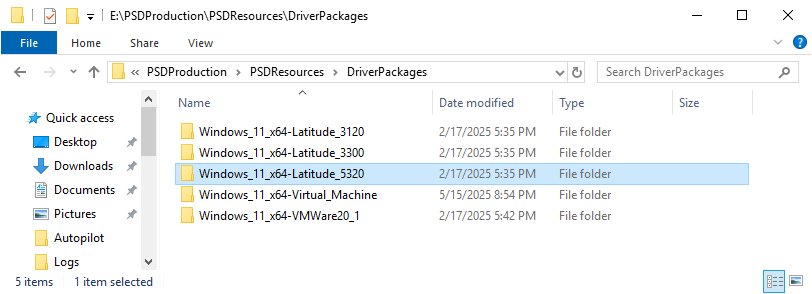
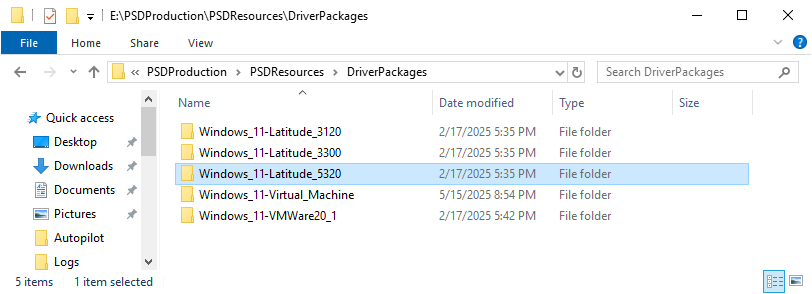
Update

Changed region(s): [[0.3079, 0.4286, 0.4618, 0.6122], [0.3079, 0.6429, 0.4618, 0.7653]]

diff --git a/Documentation/PowerShell Deployment - Operations Guide.md b/Documentation/PowerShell Deployment - Operations Guide.md
@@ -31,19 +31,36 @@ Within MDT Deployment workbench, on the newly created PSD Deployment share, impo
 
 The PSD platform leverages a folder structure for driver packages inside the DeploymentShare\PSDResources\DriverPackages folder. This structure is depending on the DriverPath, GenericDriverPath, and FallBackDriverPath variables. 
 
-Here is an example for a Dell Latitude 5320, and the default DriverPath variable (Windows 11\%ModelAlias%)
+#### Make and Model Drivers
+Having Make and Model driver packages per OS Family is also called Total Control method...
+
+Here is an example for Windows 11 and a Dell Latitude 5320, and the default DriverPath variable (Windows 11\%ModelAlias%)
 
 Step 1: Create a folder that matches the DriverPath variable, OS Family and Hardware Model alias in this case. Windows_11_x64-Latitude_5320 
 
+Please note that the "\" character is replaced with "-", and space is using "_", see the following examples
+
 ![OperationsGuide_DriverStructure](.images/OperationsGuide_DriverStructure_1.png)
 
-Please note that the "\" character is replaced with "-", and space is using "_"
+Step 2: Add either a ZIP or WIM file with the drivers for your hardware model to the created folder. We recommend naming the file short and sweet, without any spaces. For example DriverPackage.wim
 
-As long as you add either a ZIP or WIM file with the drivers for your hardware model, and name the folder according to 
+Note: We recommend having only one file per folder, but technically PSD will inject drivers from multiple files if they exist.
 
-Within MDT Deployment workbench, on the newly created PSD Deployment share, import/create/copy any desired drivers. After adding new drivers to MDT using the "total control method" (OS/Make/Model, or OS/Model, etc. ), you need to run the New-PSDDriverPackage.ps1 to generate the ZIP or WIM archives. One ZIP or WIM archive is created for each OS and Model.
+#### Generic Drivers
+Generic Drivers is a driver package that you would like to install regardless of model, for example a printer or smart card driver.
 
->PRO TIP: You can copy drivers from other MDT deployment shares. PSD also supports adding existing WIM or ZIP driver packages to the platform for seamless integration.
+The default path for the GenericDriverPath vaiable is Windows 11\Generic, meaning you place the drivers in the Windows_11-Generic folder.
+
+
+#### Fallback Drivers
+Fallback Drivers is a driver package that you would like to install if there is no make\model package available.
+
+The default path for the FallBackDriverPath vaiable is Windows 11\FallBack, meaning you place the drivers in the Windows_11-Fallback folder. A good example is commonly used network, storage or video drivers. This way you allow the OS to become somewhat functional and additional can be added later.
+
+#### Helper Scripts
+If you already have an existing MDT deployment share with drivers, we have created helper scripts that can convert those drivers into either ZIP or WIM files. 
+
+To "convert" an existing Out-Of-Box Drivers folder in a MDT Deployment workbench run the New-PSDDriverPackage.ps1 to generate the ZIP or WIM archives. One ZIP or WIM archive is created for each OS and Model.
 
 Sample syntax:
 ```powershell
